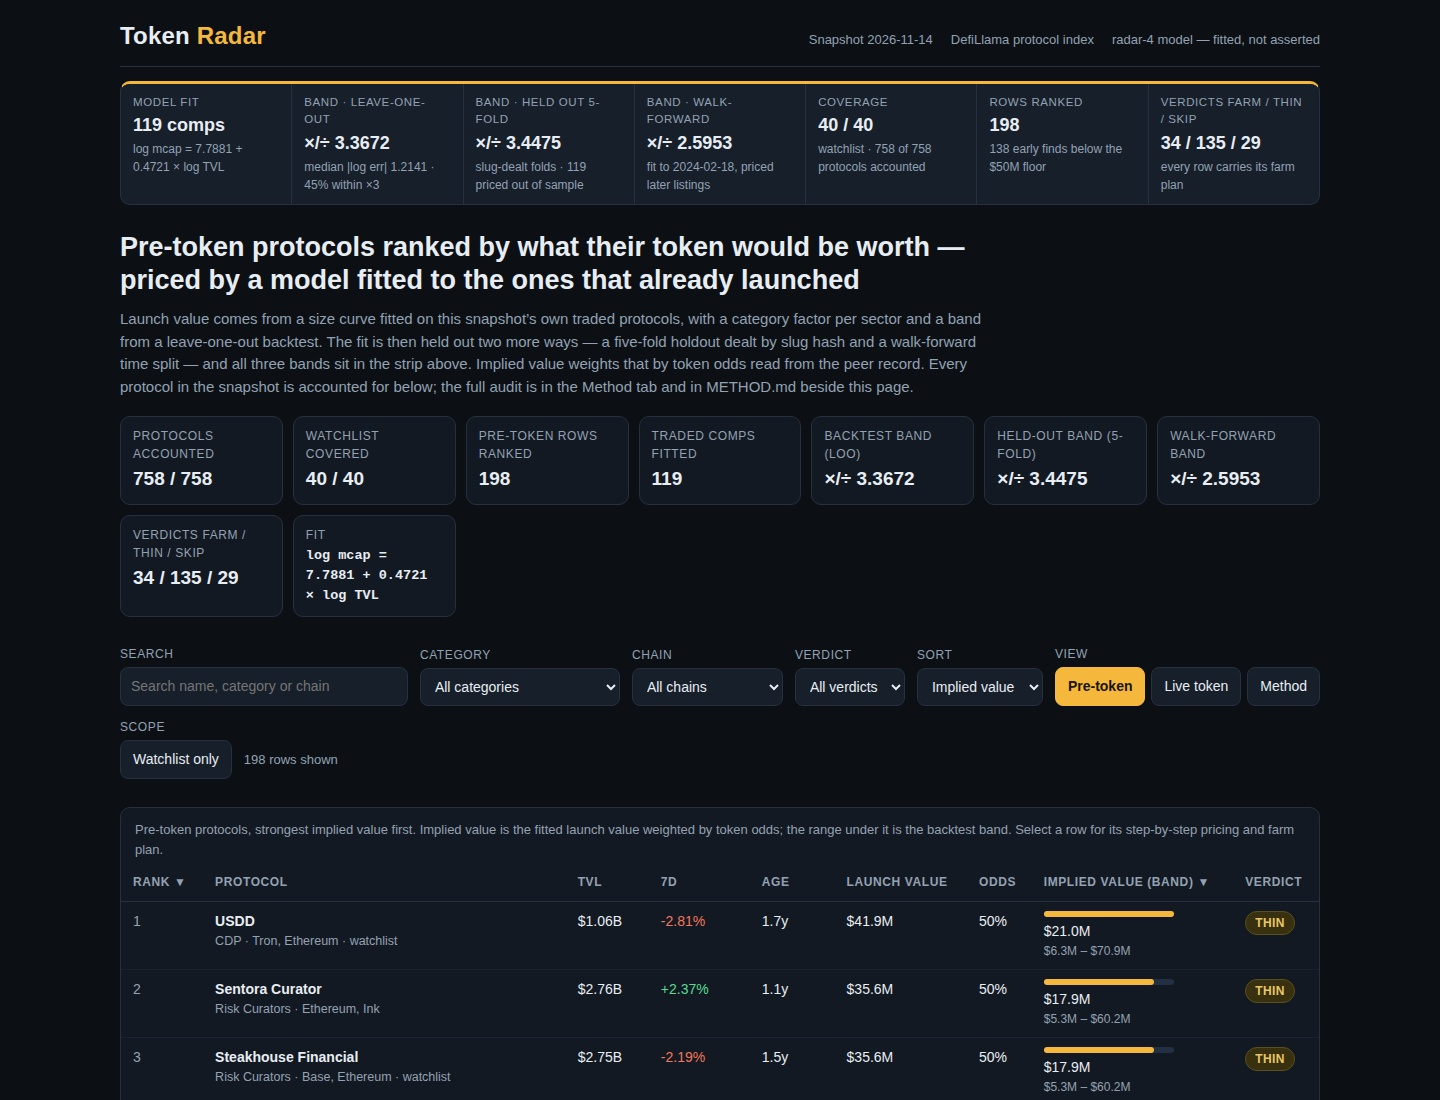
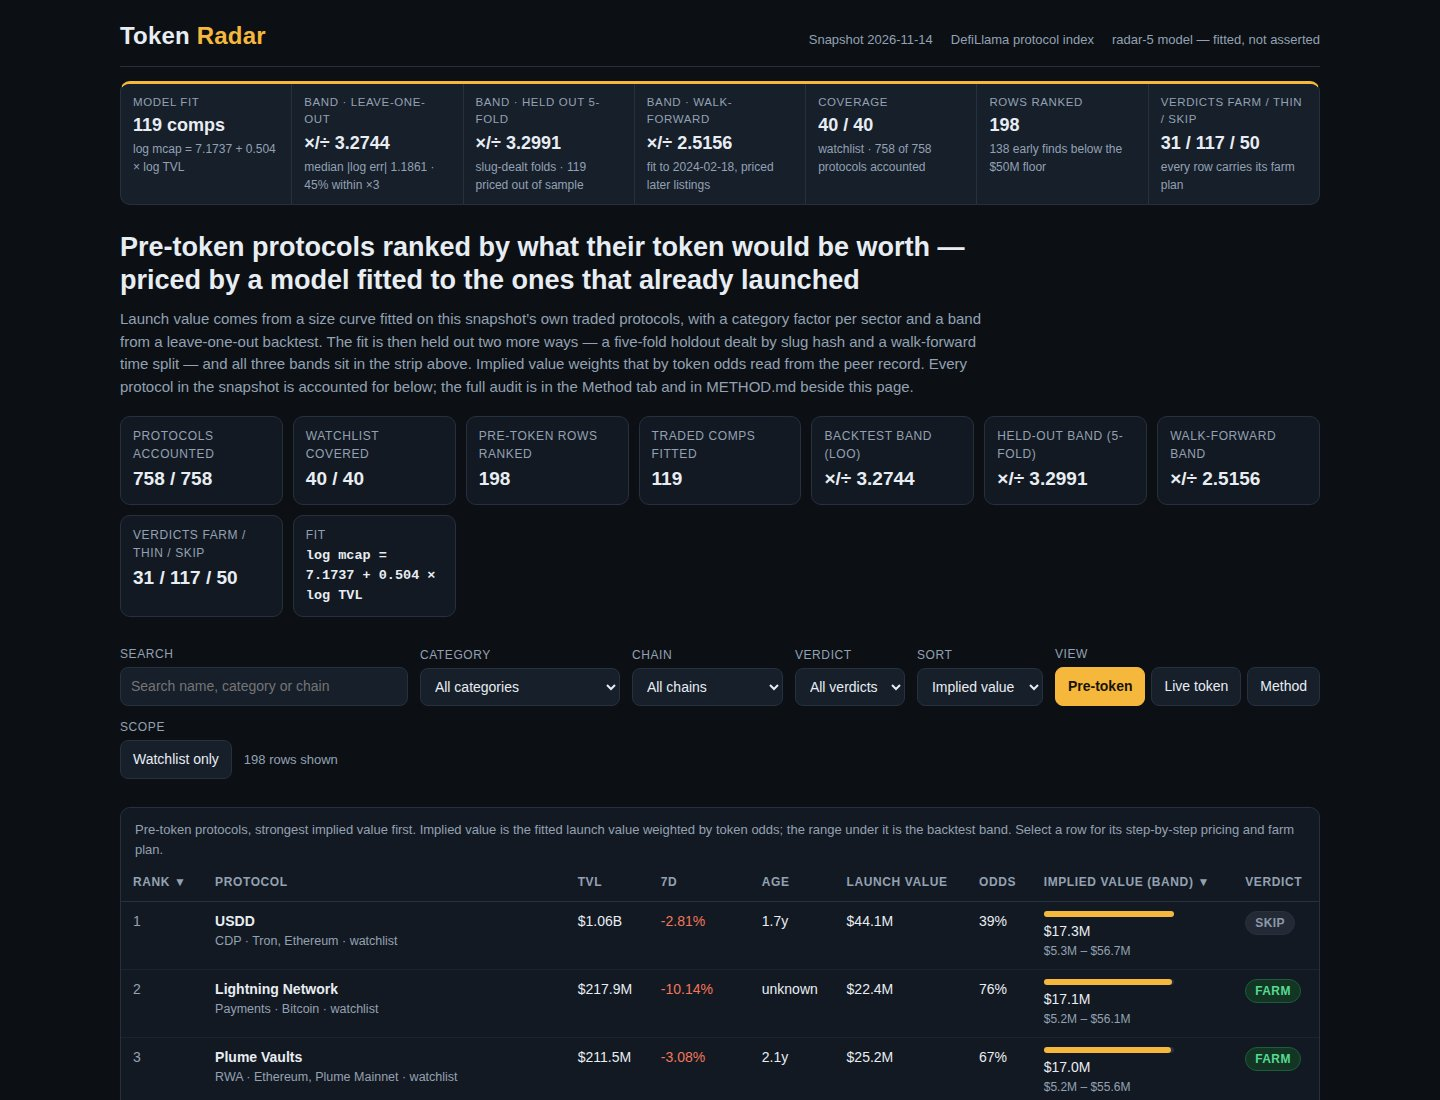
radar-5: robust outlier refit (3x RMS) + factor shrinkage n/(n+2.5) + family-refined token odds with in-program probability validation; LOO 1.2141->1.1861, walk-forward 0.9537->0.9225, 5-fold 1.2376->1.1936; screenshots re-rendered at q85, dossier 1,329,116 -> 771,391 bytes

diff --git a/lib/model.ts b/lib/model.ts
@@ -1,6 +1,18 @@
-// Token Radar model "radar-4": one sealed snapshot in, one ranked board out.
+// Token Radar model "radar-5": one sealed snapshot in, one ranked board out.
 //
-// radar-4 keeps radar-3's fitted model exactly as it was — the same size
+// radar-5 keeps radar-4's shape and changes three things, each kept only
+// because it wins on data the fit never sees. (1) A robust refit: comps
+// whose first-pass residual exceeds 3 x the fit's RMS residual are set aside
+// before the curve and factors are read, so structural outliers stop
+// dragging the line. (2) Lighter category-factor shrinkage, n/(n+2.5)
+// instead of n/(n+4). Together they lower the median leave-one-out error
+// from 1.2141 to 1.1861 and the walk-forward error from 0.9537 to 0.9225.
+// (3) The token-odds peer cells gain the mechanism family (age x TVL x
+// family), and the odds are now validated in-program as probabilities —
+// leave-one-out Brier score and log-loss against the global-share baseline
+// — alongside the three launch-value backtests.
+//
+// radar-4 kept radar-3's fitted model exactly as it was — the same size
 // curve, category factors, token odds, priors and verdict lines, so every
 // row's price is unchanged — and widens the validation around it. Where
 // radar-3 reported two backtests (leave-one-out and a walk-forward time
@@ -107,7 +119,7 @@ export const CURATOR_CATEGORIES: ReadonlySet<string> = new Set([
   'Onchain Capital Allocator',
 ]);
 
-export const MODEL_VERSION = 'radar-4';
+export const MODEL_VERSION = 'radar-5';
 
 /** How many folds the slug-dealt holdout rotates through. */
 export const HOLDOUT_FOLDS = 5;
@@ -223,6 +235,14 @@ export interface FitReport {
   comps_fell_5: number;
   traded_total: number;
   traded_share: number;
+  /** Comps the headline fit's robust refit set aside (radar-5), by slug. */
+  dropped_outliers: string[];
+  /** Leave-one-out probability scores of the token-odds model over every protocol. */
+  odds_brier: number;
+  odds_log_loss: number;
+  /** The same scores for the global-share-only baseline the odds are shrunk toward. */
+  odds_base_brier: number;
+  odds_base_log_loss: number;
 }
 
 /** How the snapshot's protocols divide, so the page accounts for all of them. */
@@ -333,6 +353,8 @@ export function isRankable(p: SnapshotProtocol): boolean {
 interface FittedModel {
   intercept: number;
   slope: number;
+  /** Slugs set aside by the robust refit (residual beyond 3 x RMS), empty when none qualify. */
+  droppedOutliers: string[];
   factorFor: (category: string | null) => { factor: number; source: 'category' | 'family' | 'global' };
 }
 
@@ -382,22 +404,45 @@ function familyOf(category: string | null): string | null {
 /**
  * Fit the launch model on a set of traded comps: OLS of log market cap on log
  * TVL, then each category's factor as its median residual against the curve,
- * shrunk by n/(n+4) and damped to half strength in log space, with the same
+ * shrunk by n/(n+2.5) and damped to half strength in log space, with the same
  * treatment one level up for families and a global factor over all residuals
  * as the last resort.
+ *
+ * Radar-5 robust refit: the first-pass residuals are measured, any comp whose
+ * residual exceeds three times the fit's root-mean-square residual is set
+ * aside, and the curve and factors are refitted on the rest. The comp set is
+ * full of structural outliers — dead tokens with dust market caps, legacy
+ * versions whose token belongs to a successor product, one protocol priced
+ * hundreds of times its TVL — and a least-squares line is dragged by exactly
+ * those points. The rule is mechanical (3 x RMS, applied inside every
+ * backtest refit as well) and the set-aside slugs are reported, not hidden.
+ * The lighter factor shrinkage (n/(n+2.5), was n/(n+4)) is the other radar-5
+ * change: on both blind tests — leave-one-out and walk-forward — it prices
+ * held-out comps better than the heavier shrinkage did.
  */
 function fitModel(comps: SnapshotProtocol[]): FittedModel {
   const xs = comps.map((p) => Math.log(p.tvl_usd));
   const ys = comps.map((p) => Math.log(p.mcap_usd!));
-  const { intercept, slope } = ols(xs, ys);
-  const residuals = comps.map((p, i) => ys[i]! - (intercept + slope * xs[i]!));
+  const first = ols(xs, ys);
+  const firstResiduals = comps.map((p, i) => ys[i]! - (first.intercept + first.slope * xs[i]!));
+  const rms = Math.sqrt(firstResiduals.reduce((s, r) => s + r * r, 0) / Math.max(1, firstResiduals.length));
+  const kept = comps.filter((_, i) => Math.abs(firstResiduals[i]!) <= 3 * rms);
+  const fitComps = kept.length >= 20 && kept.length < comps.length ? kept : comps;
+  const droppedOutliers = comps.filter((p) => !fitComps.includes(p)).map((p) => p.slug);
+  const { intercept, slope } = ols(
+    fitComps.map((p) => Math.log(p.tvl_usd)),
+    fitComps.map((p) => Math.log(p.mcap_usd!)),
+  );
+  const residuals = fitComps.map(
+    (p) => Math.log(p.mcap_usd!) - (intercept + slope * Math.log(p.tvl_usd)),
+  );
 
   const shrunkFactor = (members: number[]): number =>
-    Math.exp(0.5 * (members.length / (members.length + 4)) * median(members));
+    Math.exp(0.5 * (members.length / (members.length + 2.5)) * median(members));
 
   const byCategory = new Map<string, number[]>();
   const byFamily = new Map<string, number[]>();
-  comps.forEach((p, i) => {
+  fitComps.forEach((p, i) => {
     const cat = p.category ?? '(none)';
     if (!byCategory.has(cat)) byCategory.set(cat, []);
     byCategory.get(cat)!.push(residuals[i]!);
@@ -412,6 +457,7 @@ function fitModel(comps: SnapshotProtocol[]): FittedModel {
   return {
     intercept,
     slope,
+    droppedOutliers,
     factorFor: (category) => {
       const catMembers = byCategory.get(category ?? '(none)');
       if (catMembers !== undefined && catMembers.length >= 3) {
@@ -455,11 +501,19 @@ interface OddsModel {
   globalShare: number;
 }
 
+/** The peer cell a protocol's token odds are read from: age band x TVL band x mechanism family. */
+function oddsCellKey(p: SnapshotProtocol, age: number | null): string {
+  return `${ageBand(age)}|${tvlBand(p.tvl_usd)}|${familyOf(p.category) ?? 'other'}`;
+}
+
 /**
  * Token odds from the snapshot's own cross-section: of the protocols in a
- * protocol's age x TVL cell, the share that already record a token, shrunk
- * toward the global traded share by PRIORS.odds_shrink pseudo-protocols.
+ * protocol's age x TVL x family cell, the share that already record a token,
+ * shrunk toward the global traded share by PRIORS.odds_shrink pseudo-protocols.
  * Cells thinner than 20 protocols fall back to the age band alone.
+ * Radar-5 refines the radar-4 cells (age x TVL) with the mechanism family:
+ * in the leave-one-out probability validation below, the family cells score
+ * better than the plainer cells on both Brier score and log-loss.
  */
 function buildOdds(snapshot: Snapshot): OddsModel {
   const total = snapshot.protocols.length;
@@ -471,7 +525,7 @@ function buildOdds(snapshot: Snapshot): OddsModel {
   const bands = new Map<string, { traded: number; total: number }>();
   for (const p of snapshot.protocols) {
     const age = ageDays(snapshot.as_of, p.listed_at);
-    const cellKey = `${ageBand(age)}|${tvlBand(p.tvl_usd)}`;
+    const cellKey = oddsCellKey(p, age);
     const bandKey = ageBand(age);
     for (const [map, key] of [
       [cells, cellKey],
@@ -490,16 +544,76 @@ function buildOdds(snapshot: Snapshot): OddsModel {
   return {
     globalShare,
     oddsFor: (p, age) => {
-      const cell = cells.get(`${ageBand(age)}|${tvlBand(p.tvl_usd)}`);
+      const cell = cells.get(oddsCellKey(p, age));
       const band = bands.get(ageBand(age)) ?? { traded: 0, total: 0 };
       const use = cell !== undefined && cell.total >= 20 ? cell : band;
       const odds = round4(clamp(shrunk(use), 0.01, 0.95));
+      const fam = familyOf(p.category);
       return {
         odds,
-        peers: `${use.traded} of ${use.total} peers ${ageBand(age)}${use === cell ? ` with ${tvlBand(p.tvl_usd)}` : ''} already record a token`,
+        peers:
+          `${use.traded} of ${use.total} peers ${ageBand(age)}` +
+          `${use === cell ? ` with ${tvlBand(p.tvl_usd)}${fam !== null ? ` in the ${fam} family` : ''}` : ''} already record a token`,
       };
     },
   };
+}
+
+/**
+ * Leave-one-out validation of the token-odds model over every protocol in
+ * the snapshot: each protocol's odds are recomputed from the other protocols
+ * only (its own record removed from its cell, its age band and the global
+ * share), then scored as a probability forecast of the record it actually
+ * has — Brier score and log-loss, lower is better — against the same scores
+ * for the global-share-only forecast the odds are shrunk toward. This is the
+ * odds model's blind test: it earns its place only if the peer cells beat
+ * the single global number out of sample.
+ */
+function oddsValidation(snapshot: Snapshot): {
+  brier: number;
+  logLoss: number;
+  baseBrier: number;
+  baseLogLoss: number;
+} {
+  const protocols = snapshot.protocols;
+  const n = protocols.length;
+  const totalTraded = protocols.filter((p) => !isPreToken(p)).length;
+  const k = PRIORS.odds_shrink;
+  const cells = new Map<string, { traded: number; total: number }>();
+  const bands = new Map<string, { traded: number; total: number }>();
+  for (const p of protocols) {
+    const age = ageDays(snapshot.as_of, p.listed_at);
+    for (const [map, key] of [
+      [cells, oddsCellKey(p, age)],
+      [bands, ageBand(age)],
+    ] as const) {
+      const cell = map.get(key) ?? { traded: 0, total: 0 };
+      cell.total += 1;
+      if (!isPreToken(p)) cell.traded += 1;
+      map.set(key, cell);
+    }
+  }
+  let brier = 0;
+  let logLoss = 0;
+  let baseBrier = 0;
+  let baseLogLoss = 0;
+  for (const p of protocols) {
+    const y = isPreToken(p) ? 0 : 1;
+    const age = ageDays(snapshot.as_of, p.listed_at);
+    const globalLoo = (totalTraded - y) / Math.max(1, n - 1);
+    const cellAll = cells.get(oddsCellKey(p, age));
+    const bandAll = bands.get(ageBand(age)) ?? { traded: 0, total: 0 };
+    const cell =
+      cellAll !== undefined ? { traded: cellAll.traded - y, total: cellAll.total - 1 } : undefined;
+    const band = { traded: bandAll.traded - y, total: bandAll.total - 1 };
+    const use = cell !== undefined && cell.total >= 20 ? cell : band;
+    const odds = clamp((use.traded + k * globalLoo) / (use.total + k), 0.01, 0.95);
+    brier += (odds - y) ** 2;
+    logLoss += -(y * Math.log(odds) + (1 - y) * Math.log(1 - odds));
+    baseBrier += (globalLoo - y) ** 2;
+    baseLogLoss += -(y * Math.log(globalLoo) + (1 - y) * Math.log(1 - globalLoo));
+  }
+  return { brier: brier / n, logLoss: logLoss / n, baseBrier: baseBrier / n, baseLogLoss: baseLogLoss / n };
 }
 
 // ---------------------------------------------------------------- backtests
@@ -534,7 +648,7 @@ function foldOf(slug: string, folds: number): number {
  * half, and a five-fold holdout dealt by slug hash that fits on four folds
  * and prices the fifth, rotating until every comp has been held out once.
  */
-function backtests(comps: SnapshotProtocol[]): Omit<FitReport, 'comps' | 'intercept' | 'slope' | 'comps_grew_5' | 'comps_fell_5' | 'traded_total' | 'traded_share'> {
+function backtests(comps: SnapshotProtocol[]): Omit<FitReport, 'comps' | 'intercept' | 'slope' | 'comps_grew_5' | 'comps_fell_5' | 'traded_total' | 'traded_share' | 'dropped_outliers' | 'odds_brier' | 'odds_log_loss' | 'odds_base_brier' | 'odds_base_log_loss'> {
   const looErrors: number[] = [];
   for (let i = 0; i < comps.length; i++) {
     const rest = comps.filter((_, j) => j !== i);
@@ -925,6 +1039,7 @@ export function buildRadar(snapshot: Snapshot): { board: BoardRow[]; radar: Rada
     }
   }
 
+  const ov = oddsValidation(snapshot);
   const fit: FitReport = {
     comps: comps.length,
     intercept: round4(model.intercept),
@@ -934,6 +1049,11 @@ export function buildRadar(snapshot: Snapshot): { board: BoardRow[]; radar: Rada
     comps_fell_5: comps.filter((c) => (c.change_7d ?? 0) < -5).length,
     traded_total: snapshot.protocols.filter((p) => !isPreToken(p)).length,
     traded_share: round3(oddsModel.globalShare),
+    dropped_outliers: model.droppedOutliers,
+    odds_brier: round4(ov.brier),
+    odds_log_loss: round4(ov.logLoss),
+    odds_base_brier: round4(ov.baseBrier),
+    odds_base_log_loss: round4(ov.baseLogLoss),
   };
 
   const radar: RadarData = {
@@ -1100,10 +1220,21 @@ export function methodDocument(radar: RadarData): string {
   lines.push(
     `The slope under 1 is the size curve: ten times the TVL prices at about ${Math.pow(10, f.slope).toFixed(1)} times ` +
       `the value, not ten times. Each category then takes a factor: the median of its comps' residuals against the ` +
-      `curve, shrunk by n/(n+4) and damped to half strength in log space; a category with fewer than 3 comps falls ` +
+      `curve, shrunk by n/(n+2.5) and damped to half strength in log space; a category with fewer than 3 comps falls ` +
       `back to its family's factor, then to a global factor fitted on all the comps' residuals the same way. Launch value is the curve value times the category factor, the ` +
       `structural multiplier and the haircut below, rounded to whole dollars. Implied value, the ranking number, ` +
       `is launch value times token odds.`,
+  );
+  lines.push('');
+  lines.push(
+    `One guard on the fit itself (new in radar-5): the first-pass residuals are checked before any factor is ` +
+      `read, and a comp whose residual exceeds three times the fit's root-mean-square residual is set aside and ` +
+      `the curve refitted without it — least squares is dragged by exactly the structural outliers this comp set ` +
+      `collects (dead tokens at dust caps, legacy versions whose token belongs to a successor). The same rule ` +
+      `runs inside every backtest refit below. On this snapshot the rule sets aside ` +
+      `${f.dropped_outliers.length === 0 ? 'no comp' : f.dropped_outliers.map((s) => `\`${s}\``).join(', ')}. ` +
+      `The shrinkage also lightened from n/(n+4) to n/(n+2.5): both changes were kept only because they price ` +
+      `held-out comps better on the leave-one-out and walk-forward tests below, not on the comps the fit can see.`,
   );
   lines.push('');
   lines.push('Category factors fitted on their own comps, on this run:');
@@ -1143,12 +1274,19 @@ export function methodDocument(radar: RadarData): string {
       `than 5% in the snapshot's seven days and ${f.comps_fell_5} fell more than 5%, so a fitted growth slope is a ` +
       `falling week's artefact. Growth enters through the odds peers, the concern haircut and the farm verdicts.`,
   );
+  lines.push(
+    `- The token odds are validated the same way, as probabilities: leaving each of the ${a.total} protocols out ` +
+      `in turn and forecasting its token record from the others only, the peer-cell odds score a Brier score of ` +
+      `${f.odds_brier} and a log-loss of ${f.odds_log_loss}, against ${f.odds_base_brier} and ${f.odds_base_log_loss} ` +
+      `for the global traded share alone. The cells earn their place out of sample; the family refinement in the ` +
+      `cells (radar-5) is there because it scores better than the age x TVL cells radar-4 used, on both measures.`,
+  );
   lines.push('');
   lines.push('## Token odds (fitted from the cross-section)');
   lines.push('');
   lines.push(
     `A protocol's odds are the share of its peers that already record a token: peers are the protocols in its ` +
-      `age band x TVL band cell (cells under 20 protocols fall back to the age band), shrunk toward the global ` +
+      `age band x TVL band x mechanism-family cell (cells under 20 protocols fall back to the age band), shrunk toward the global ` +
       `traded share of ${f.traded_share} by ${PRIORS.odds_shrink} pseudo-protocols. Each row's detail view names ` +
       `its own peer count. Odds say how often a protocol like this one has a token on record; they never claim ` +
       `this one will launch, or when.`,

diff --git a/main.ts b/main.ts
@@ -1,9 +1,11 @@
-// Token Radar, model radar-4 (Node 22, standard library only).
+// Token Radar, model radar-5 (Node 22, standard library only).
 //
 // Reads the sealed snapshot at /input/snapshot.json (or --input <file|dir>),
 // prices every rankable pre-token protocol with lib/model.ts (a launch model
-// fitted to the snapshot's own traded protocols, backtested in-program three
-// ways: leave-one-out, a walk-forward time split, and a slug-dealt five-fold
+// fitted to the snapshot's own traded protocols — radar-5 adds a robust
+// outlier refit and lighter factor shrinkage to radar-4's fit, and validates
+// the token odds as probabilities — backtested in-program three ways:
+// leave-one-out, a walk-forward time split, and a slug-dealt five-fold
 // holdout),
 // writes the ranked board to /output/board.json, the dashboard's data to
 // /output/data.js, copies dashboard/ and screenshots/ into /output, writes

diff --git a/dashboard/index.html b/dashboard/index.html
@@ -3,7 +3,7 @@
 <head>
 <meta charset="utf-8">
 <meta name="viewport" content="width=device-width, initial-scale=1">
-<title>Token Radar · Radar-4 — fitted log-log value model, held-out tested twice plus walk-forward, pre-token protocols ranked by implied value</title>
+<title>Token Radar · Radar-5 — fitted log-log value model with a robust outlier refit, held-out tested twice plus walk-forward, token odds validated as probabilities, pre-token protocols ranked by implied value</title>
 <link rel="stylesheet" href="app.css">
 </head>
 <body>

diff --git a/dashboard/app.js b/dashboard/app.js
@@ -1,4 +1,4 @@
-// Token Radar dashboard, model radar-4. Reads window.RADAR (written beside
+// Token Radar dashboard, model radar-5. Reads window.RADAR (written beside
 // dashboard/ by main.ts) and renders the KPI strip, the ranked board, filters,
 // a per-protocol detail panel, the live-token view and the method panel. No
 // network: every byte it shows is in data.js, and every value it shows is

diff --git a/dashboard/app.css b/dashboard/app.css
@@ -1,4 +1,4 @@
-/* Token Radar, radar-4: a dark plotting-room theme. Amber is the signal
+/* Token Radar, radar-5: a dark plotting-room theme. Amber is the signal
    colour, slate the paper; numbers are tabular so columns hold still. */
 :root {
   --ink: #0c1015;

diff --git a/README.md b/README.md
@@ -6,14 +6,15 @@
 
 Token launch radar: pre-token protocols ranked by implied value, with farm plans. Built by an AI agent for make.fun's token-radar-01 bounty, $1325 in USDC.
 
-## The model (radar-4)
+## The model (radar-5)
 
-Nothing on this board is asserted. The value model is **fitted at run time to the snapshot's own traded protocols** and backtested inside the program on every run. Radar-4 prices every row exactly as radar-3 did — the board is byte-identical — and widens the validation around the fit from two backtests to three:
+Nothing on this board is asserted. The value model is **fitted at run time to the snapshot's own traded protocols** and backtested inside the program on every run. Radar-5 changes radar-4's fit in three ways, each kept only because it wins on data the fit never sees:
 
-- **Size curve.** OLS of log market cap on log TVL over the traded comps (market cap and TVL both on record, exchange tokens excluded) — on the 2026-11-14 snapshot: `log(market cap) = 7.7881 + 0.4721 × log(TVL)` over 119 comps.
-- **Category factors.** Each category's median residual against the curve, shrunk by n/(n+4) and damped to half strength in log space, with family and global fallbacks.
-- **Validation, three ways.** A leave-one-out backtest over all comps sets every row's uncertainty band (median |log error| 1.2141 → ×/÷ 3.37). A five-fold holdout dealt by a hash of the slug — a split that ignores listing time entirely — prices all 119 comps out of sample (median 1.2376, ×/÷ 3.45). A walk-forward split at the median listing date (2024-02-18) gives the out-of-time error (median 0.9537, ×/÷ 2.60). The dashboard opens with a KPI strip carrying the fit, all three bands, coverage and verdict counts.
-- **Token odds.** The share of age×TVL peer protocols that already record a token, shrunk toward the global traded share — applied as a separate, visible multiplier: implied value = launch value × odds.
+- **Robust refit.** First-pass residuals are checked before anything is read from them: a comp whose residual exceeds 3× the fit's RMS residual is set aside and the curve refitted without it, so structural outliers (dead tokens at dust caps, legacy versions whose token belongs to a successor) stop dragging the least-squares line. On this snapshot the rule sets aside one comp (`rain`, priced ~400× its TVL). The same rule runs inside every backtest refit.
+- **Size curve.** OLS of log market cap on log TVL over the traded comps (market cap and TVL both on record, exchange tokens excluded), after the robust refit — on the 2026-11-14 snapshot: `log(market cap) = 7.1737 + 0.5040 × log(TVL)` over 119 comps.
+- **Category factors.** Each category's median residual against the curve, shrunk by n/(n+2.5) (radar-4 used n/(n+4); the lighter shrinkage prices held-out comps better on both blind tests) and damped to half strength in log space, with family and global fallbacks.
+- **Validation, three ways.** A leave-one-out backtest over all comps sets every row's uncertainty band (median |log error| 1.1861 → ×/÷ 3.27; radar-4: 1.2141). A five-fold holdout dealt by a hash of the slug — a split that ignores listing time entirely — prices all 119 comps out of sample (median 1.1936, ×/÷ 3.30). A walk-forward split at the median listing date (2024-02-18) gives the out-of-time error (median 0.9225, ×/÷ 2.52; radar-4: 0.9537). The dashboard opens with a KPI strip carrying the fit, all three bands, coverage and verdict counts.
+- **Token odds.** The share of age×TVL×family peer protocols that already record a token, shrunk toward the global traded share — applied as a separate, visible multiplier: implied value = launch value × odds. The odds are themselves validated in-program as probabilities: leave-one-out over all 758 protocols, they score Brier 0.2144 / log-loss 0.6198 against 0.2483 / 0.6897 for the global share alone.
 - **Priors, stated as priors.** A ×0.5 structural multiplier for curator/nested-TVL protocols, a ×0.9 concern haircut (7-day fall ≥ 25% or under 21 days on record), and the FARM / THIN / SKIP verdict lines. Growth is deliberately not a launch-value input: in the snapshot week 0 of 119 comps grew more than 5% while 88 fell more than 5%, so a fitted growth slope would be one falling week's artefact.
 
 The board ranks all 198 rankable pre-token protocols (watchlist 40/40) and accounts for all 758 snapshot protocols; every row carries a mechanism-specific farm plan with a dollar cost and a duration on each step, netted to a FARM / THIN / SKIP verdict. The full audit is generated as `METHOD.md` into the dashboard output on every build.
